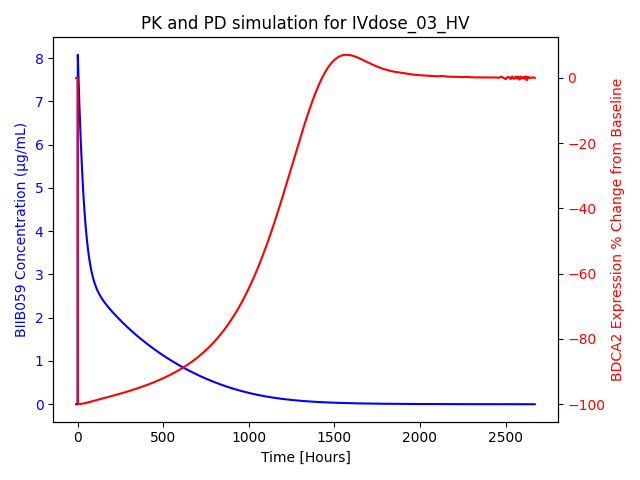
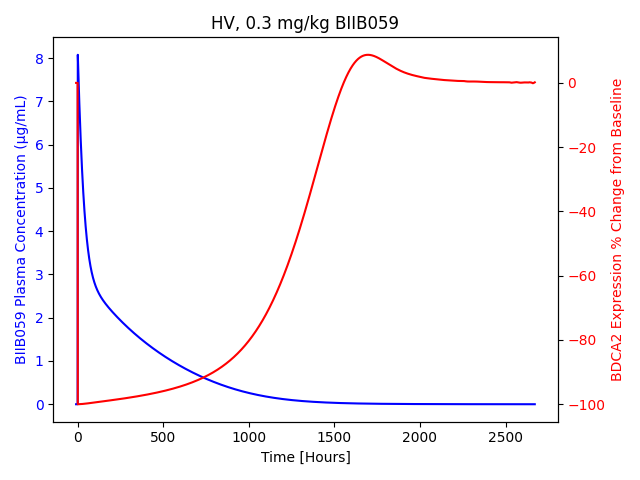
Nu finns det PK_PD plottar även för SLE

diff --git a/Scripts/plot_SLE_PK_PD_together.py b/Scripts/plot_SLE_PK_PD_together.py
@@ -5,8 +5,8 @@ import numpy as np
 import sund
 import matplotlib.pyplot as plt
 
-# Ensure the PK_PD folder exists inside HV_results in Results
-results_folder = os.path.abspath(os.path.join(os.path.dirname(__file__), '..', 'Results', 'HV_results', 'PK_PD'))
+# Ensure the PK_PD folder exists inside SLE_results in Results
+results_folder = os.path.abspath(os.path.join(os.path.dirname(__file__), '..', 'Results', 'SLE_results', 'PK_PD'))
 os.makedirs(results_folder, exist_ok=True)
 
 # Map experiment names to doses
@@ -26,7 +26,7 @@ def plot_PK_PD_sim_with_data(params, sims, experiment, PK_data, PD_data, time_ve
 
     # Get the dose from the mapping
     dose = experiment_to_dose.get(experiment, "Unknown dose")
-    figure_title = f"HV, {dose} BIIB059"
+    figure_title = f"SLE, {dose} BIIB059"
 
     # Create a new figure
     fig, ax1 = plt.subplots()
@@ -91,13 +91,18 @@ for experiment in PK_data:
 time_vectors = {exp: np.arange(-10, PK_data[exp]["time"][-1] + 2000, 1) for exp in PK_data}
 
 # Define parameters (example parameters, replace with actual values)
-params = [0.679, 0.01, 2600, 1810, 6300, 4370, 2600, 10.29, 29.58, 80.96, 0.769, 0.95, 0.605, 0.2, 5.896, 
+params = [0.679, 0.01, 2600, 1810, 6300, 4370, 2600, 10.29, 29.58, 80.96, 0.769, 0.95, 0.605, 0.2, 8.69, 
           13.9, 0.421, 1.92e-4, 5e-8, 8, 8, 0.525]
 
 # Plot and save each experiment
 for experiment in PK_data:
+    # Replace "_HV" with "_SLE" in the experiment name
+    experiment_sle = experiment.replace("_HV", "_SLE")
+    
+    # Generate the plot
     fig = plot_PK_PD_sim_with_data(params, first_model_sims, experiment, PK_data, PD_data, time_vectors)
     if fig:  # Only save if a figure was returned
-        plot_path = os.path.join(results_folder, f"{experiment}_PK_PD_simulation.png")
+        # Save the figure with the updated name
+        plot_path = os.path.join(results_folder, f"{experiment_sle}_PK_PD_simulation.png")
         fig.savefig(plot_path)
-        print(f"Saved plot for {experiment} to {plot_path}")
+        print(f"Saved plot for {experiment_sle} to {plot_path}")

diff --git a/Scripts/plot_SLE_PK_simulation.py b/Scripts/plot_SLE_PK_simulation.py
@@ -1,8 +1,7 @@
-
 # Importing the necessary libraries
 import os
 import re
-import numpy as np
+import numpy np
 import matplotlib.pyplot as plt
 import sund
 import json
@@ -43,10 +42,15 @@ def plot_sim_with_PK_data(params, sims, PK_data, color='b', save_dir='../Results
         plt.figure()
         timepoints = time_vectors[experiment]
         plot_sim(params, sims[experiment], timepoints, color)
-        plt.title(experiment)
+        
+        # Replace "_HV" with "_SLE" in the experiment name
+        experiment_sle = experiment.replace("_HV", "_SLE")
+        
+        # Update the title
+        plt.title(experiment_sle)
 
         # Save figure with PK-specific name
-        filename = f"SLE_PK_{experiment}_simulation.png"
+        filename = f"SLE_PK_{experiment_sle}_simulation.png"
         save_path = os.path.join(save_dir, filename)
         plt.savefig(save_path, bbox_inches='tight')
         plt.close()
